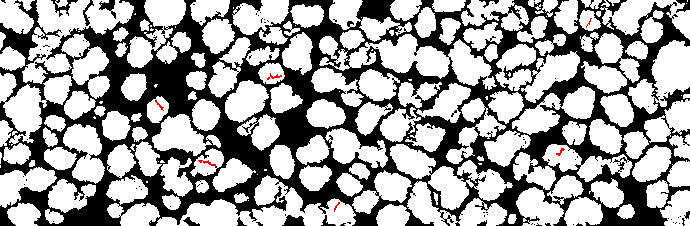
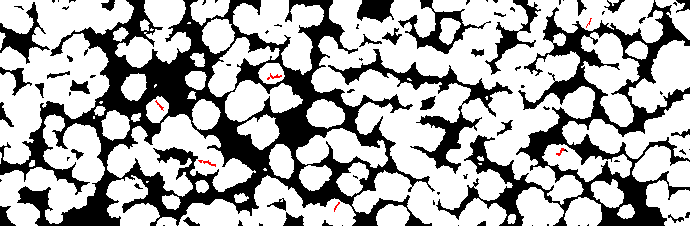
Redraw sample2's particle outlines from image brightness

diff --git a/docs/dino-features.md b/docs/dino-features.md
@@ -70,7 +70,7 @@ The seeds come from brightness, so particle/pore/binder favour brightness featur
 | Sample | Classes | Built with |
 |---|---|---|
 | 1 | particle (white), pore (black), crack (red); every pixel scored | `make_truth.py`, then binder merged into pore; unscored specks under 30 px take their nearest label, wider unscored areas split at the particle edge level (141.5). Cracks are then thinned to pixels at least 12 gray levels darker than a 5 px closing of the image; crack lines lying mostly along pore are pore. Thin pore (half-width ≤ 2.5 px) more than 3 px inside a particle outline (4 px closing) is crack. Crack lines of at least 10 px within 2 px of a large particle's convex outline (pieces of 2 000 px or more) that open onto pore are gaps between particles and become pore |
-| 2 | particle (white), pore (black), crack (red); every pixel scored | `make_truth.py --scale .5 --split`, then sample1's clean-up (binder into pore, unscored filled at edge level 109.5, cracks thinned), then only long line-shaped cracks kept and each of the remaining 19 checked by eye: 6 kept |
+| 2 | particle (white), pore (black), crack (red); every pixel scored | `make_truth.py --scale .5 --split`, then sample1's clean-up (binder into pore, unscored filled at edge level 109.5, cracks thinned), then only long line-shaped cracks kept and each of the remaining 19 checked by eye: 6 kept. Particle outlines were then redrawn from the image: luminance smoothed at σ 0.7 above 109.5, holes up to 6 px filled, specks up to 4 px dropped |
 | 3 | large, small, background | `make_size_truth.py`, size rule (same as `eval/truth/sample3_size_mask.png`) |
 | 4 | particle, pore, crack | `make_sample4_truth.py`: polished graphite sections; surfaces below the section plane, marked by hand boxes, are pore |
 
